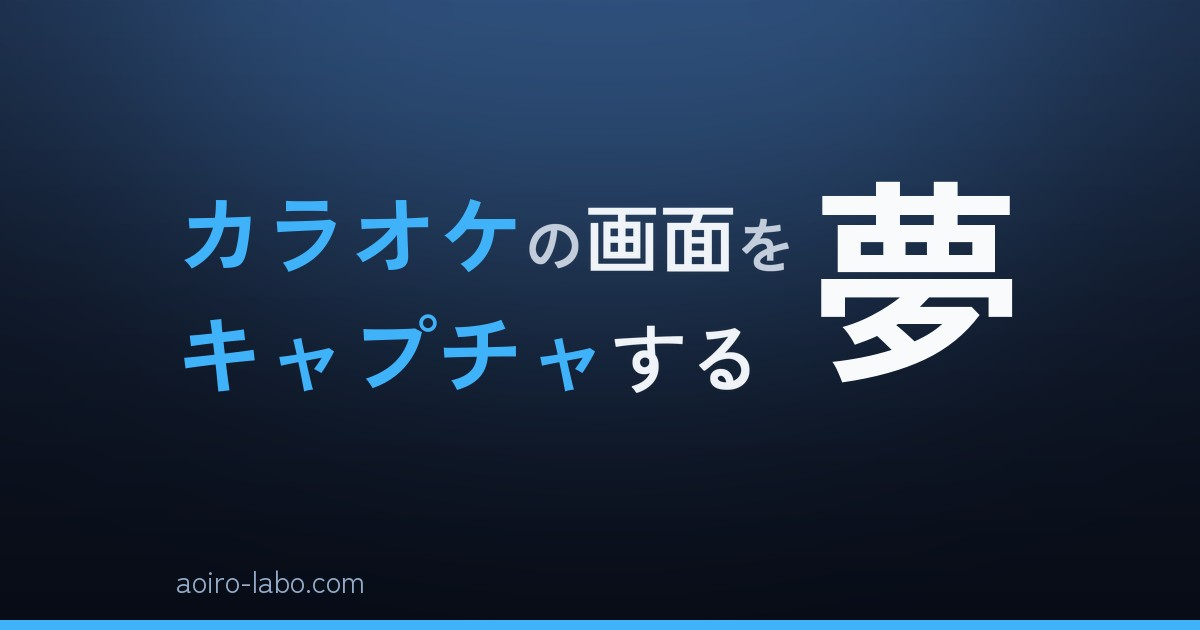
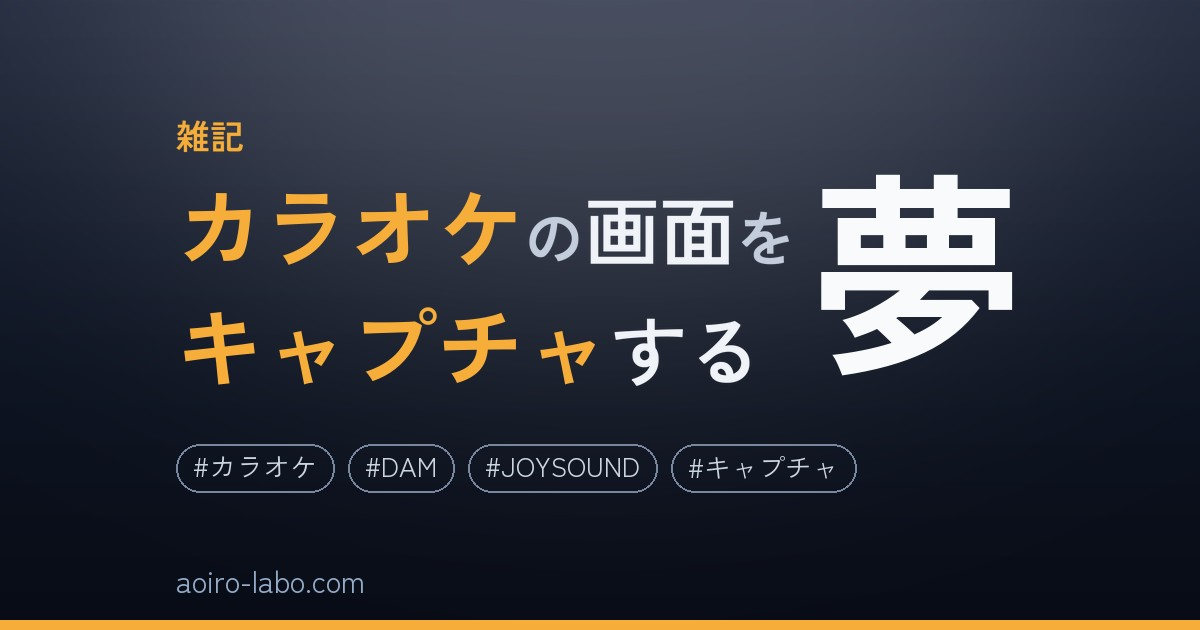
カバー生成：zone配置は本文2行を優先し、front matterのインラインリスト記法にも対応

diff --git a/tools/generate_cover.py b/tools/generate_cover.py
@@ -14,13 +14,18 @@ def fm_of(path):
     fm=t.split('---')[1]
     g=lambda pat: (re.search(pat, fm).group(1).strip() if re.search(pat, fm) else '')
     title=g(r'title:\s*"?([^"\n]+)')
-    cats=re.findall(r'categories:\s*\n((?:\s*-\s*.+\n)+)', fm)
-    cat=re.findall(r'-\s*"?([^"\n]+)', cats[0])[0].strip() if cats else ''
-    tg=re.findall(r'tags:\s*\n((?:\s*-\s*.+\n)+)', fm)
-    tags=[x.strip().strip('"') for x in re.findall(r'-\s*"?([^"\n]+)', tg[0])] if tg else []
+    def list_of(key):
+        m=re.search(key + r':\s*\[([^\]]*)\]', fm)
+        if m:
+            return [x.strip().strip('"').strip("'") for x in m.group(1).split(',') if x.strip()]
+        b=re.findall(key + r':\s*\n((?:\s*-\s*.+\n)+)', fm)
+        if b:
+            return [x.strip().strip('"') for x in re.findall(r'-\s*"?([^"\n]+)', b[0])]
+        return []
+    _cl=list_of('categories'); cat=_cl[0] if _cl else ''
+    tags=list_of('tags')
     kw=g(r'cover_keyword:\s*"?([^"\n]+)')
-    em=re.findall(r'cover_emphasis:\s*\n((?:\s*-\s*.+\n)+)', fm)
-    emph=[x.strip().strip('"') for x in re.findall(r'-\s*"?([^"\n]+)', em[0])] if em else []
+    emph=list_of('cover_emphasis')
     cimg=g(r'cover_image:\s*"?([^"\n]+)')
     slug=g(r'slug:\s*"?([^"\n]+)')
     return title, cat, tags, kw, emph, cimg, slug
@@ -561,22 +566,39 @@ def make(path, out, hero_override=None, emphasis_override=None):
             ksize-=12
         body = disp[:-len(hero)]
         items = classify(split_emph(tokenize(body), emph, ''), emph, '')
-        col_w = W - MARGIN*2 - int(kw_w) - 48
-        size=76; lines=None; widths=None
-        while size>=52:
-            widths=[]
+        cap_w = int(kw_w)
+        size=None; lines=None; widths=None; col_w=None; hero_w_cap=cap_w
+        # prefer a 2-line body: shrink the hero (down to 0.24W) before shrinking the type
+        for s_try in range(76, 57, -2):
+            w_try=[]
             for (text, cls, glue) in items:
-                fnt,_,_=style_of(cls, size, acc); widths.append(d.textlength(text, font=fnt))
-            for ml in (2,3):
-                lines=layout(items, widths, col_w, ml)
-                if lines: break
+                fnt,_,_=style_of(cls, s_try, acc); w_try.append(d.textlength(text, font=fnt))
+            hw = cap_w
+            while hw >= int(W*0.24):
+                cw = W - MARGIN*2 - hw - 48
+                ln = layout(items, w_try, cw, 2)
+                if ln:
+                    size, lines, widths, col_w, hero_w_cap = s_try, ln, w_try, cw, hw
+                    break
+                hw -= 24
             if lines: break
-            size-=4
+        if lines is None:
+            col_w = W - MARGIN*2 - cap_w - 48
+            size=76
+            while size>=52:
+                widths=[]
+                for (text, cls, glue) in items:
+                    fnt,_,_=style_of(cls, size, acc); widths.append(d.textlength(text, font=fnt))
+                for ml in (2,3):
+                    lines=layout(items, widths, col_w, ml)
+                    if lines: break
+                if lines: break
+                size-=4
         if lines:
             zone=True
             heights=line_heights(lines, size, acc)
             block_h=sum(heights)
-            kw_w_max = kw_w
+            kw_w_max = hero_w_cap
             # size the hero so its ink height matches the left text block height
             _f100=cover_font("Bold", 100)
             _bb=d.textbbox((0,0), hero, font=_f100)
